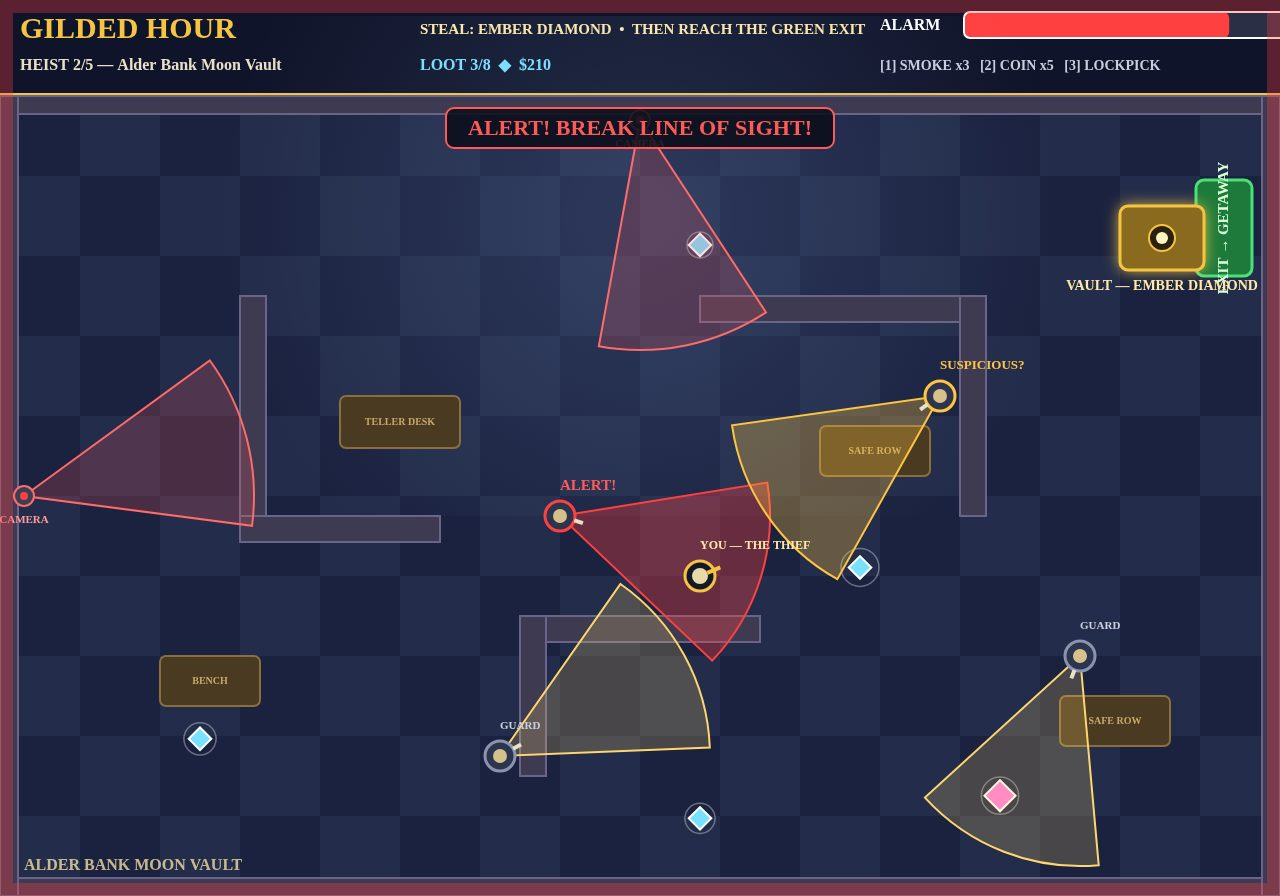
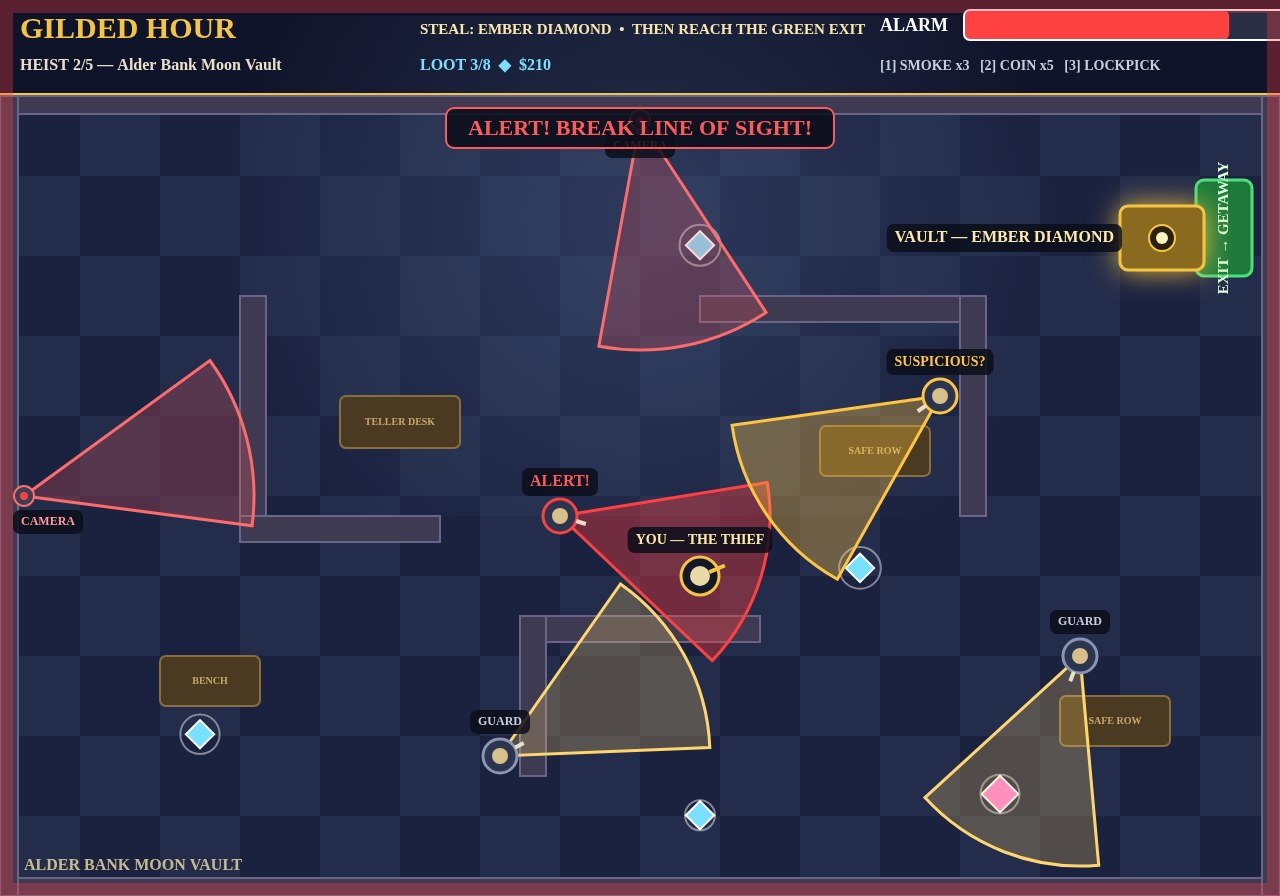
v2: cover legibility at judge size — label pills, bigger thief/vault/treasures, thicker cones, taller alarm meter; getaway shot now heist 5 (Ivory Athenaeum)

diff --git a/game/src/render.js b/game/src/render.js
@@ -31,6 +31,28 @@ function text(ctx, s, x, y, size, color, weight = 'bold', align = 'left') {
   ctx.fillText(s, x, y);
 }
 
+// A dark pill behind a label so it reads at small size even over a bright cone.
+function labelPill(ctx, s, x, y, size, color) {
+  ctx.font = `bold ${size}px Georgia, 'Times New Roman', serif`;
+  const w = ctx.measureText(s).width;
+  const pad = 8;
+  ctx.fillStyle = 'rgba(11, 14, 26, 0.85)';
+  rr(ctx, x - w / 2 - pad, y - size / 2 - 6, w + pad * 2, size + 12, 7);
+  ctx.fill();
+  text(ctx, s, x, y, size, color, 'bold', 'center');
+}
+
+// Right-aligned pill: the text ends at x (used by the vault label).
+function labelPillRight(ctx, s, x, y, size, color) {
+  ctx.font = `bold ${size}px Georgia, 'Times New Roman', serif`;
+  const w = ctx.measureText(s).width;
+  const pad = 8;
+  ctx.fillStyle = 'rgba(11, 14, 26, 0.85)';
+  rr(ctx, x - w - pad, y - size / 2 - 6, w + pad * 2, size + 12, 7);
+  ctx.fill();
+  text(ctx, s, x, y, size, color, 'bold', 'right');
+}
+
 function drawCone(ctx, x, y, angle, range, half, fill, edge) {
   ctx.beginPath();
   ctx.moveTo(x, y);
@@ -39,45 +61,49 @@ function drawCone(ctx, x, y, angle, range, half, fill, edge) {
   ctx.fillStyle = fill;
   ctx.fill();
   ctx.strokeStyle = edge;
-  ctx.lineWidth = 2;
+  ctx.lineWidth = 3;
   ctx.stroke();
 }
 
 function drawGuard(ctx, g) {
   drawCone(ctx, g.x, g.y, g.angle, CONE_RANGE, CONE_HALF_ANGLE, coneColor(g.state), coneEdgeColor(g.state));
-  // Body: dark uniform, brass buttons, helmet brim.
-  ctx.beginPath(); ctx.arc(g.x, g.y, 15, 0, Math.PI * 2); ctx.fillStyle = '#2c3550'; ctx.fill();
+  // Body: dark uniform, brass buttons, helmet brim. Bigger than v1 so the
+  // guard reads as a person, not a dot, when the cover is shrunk.
+  ctx.beginPath(); ctx.arc(g.x, g.y, 17, 0, Math.PI * 2); ctx.fillStyle = '#2c3550'; ctx.fill();
   ctx.lineWidth = 3; ctx.strokeStyle = g.state === 'alert' ? '#ff4040' : g.state === 'suspicious' ? '#ffc440' : '#8a94b0'; ctx.stroke();
-  ctx.beginPath(); ctx.arc(g.x, g.y, 7, 0, Math.PI * 2); ctx.fillStyle = '#d8c08a'; ctx.fill();
+  ctx.beginPath(); ctx.arc(g.x, g.y, 8, 0, Math.PI * 2); ctx.fillStyle = '#d8c08a'; ctx.fill();
   // Facing tick.
   ctx.beginPath();
-  ctx.moveTo(g.x + Math.cos(g.angle) * 15, g.y + Math.sin(g.angle) * 15);
-  ctx.lineTo(g.x + Math.cos(g.angle) * 24, g.y + Math.sin(g.angle) * 24);
+  ctx.moveTo(g.x + Math.cos(g.angle) * 17, g.y + Math.sin(g.angle) * 17);
+  ctx.lineTo(g.x + Math.cos(g.angle) * 27, g.y + Math.sin(g.angle) * 27);
   ctx.lineWidth = 4; ctx.strokeStyle = '#e8e0c8'; ctx.stroke();
-  // State label, big enough to read at small size.
-  if (g.state === 'alert') text(ctx, 'ALERT!', g.x, g.y - 30, 15, '#ff5a5a');
-  else if (g.state === 'suspicious') text(ctx, 'SUSPICIOUS?', g.x, g.y - 30, 13, '#ffc440');
-  else text(ctx, 'GUARD', g.x, g.y - 30, 11, '#c8cede');
+  // State label on a dark pill, big enough to read at small size.
+  if (g.state === 'alert') labelPill(ctx, 'ALERT!', g.x, g.y - 34, 16, '#ff5a5a');
+  else if (g.state === 'suspicious') labelPill(ctx, 'SUSPICIOUS?', g.x, g.y - 34, 14, '#ffc440');
+  else labelPill(ctx, 'GUARD', g.x, g.y - 34, 12, '#c8cede');
 }
 
 function drawCamera(ctx, cam) {
-  drawCone(ctx, cam.x, cam.y, cam.angle, CAM_RANGE, CAM_HALF_ANGLE, 'rgba(255, 90, 90, 0.20)', '#ff6a6a');
+  drawCone(ctx, cam.x, cam.y, cam.angle, CAM_RANGE, CAM_HALF_ANGLE, 'rgba(255, 90, 90, 0.24)', '#ff6a6a');
   ctx.beginPath(); ctx.arc(cam.x, cam.y, 10, 0, Math.PI * 2); ctx.fillStyle = '#3a3f55'; ctx.fill();
   ctx.lineWidth = 2; ctx.strokeStyle = '#ff6a6a'; ctx.stroke();
   ctx.beginPath(); ctx.arc(cam.x, cam.y, 4, 0, Math.PI * 2); ctx.fillStyle = '#ff4040'; ctx.fill();
-  text(ctx, 'CAMERA', cam.x, cam.y + 24, 11, '#ff9a9a', 'bold', 'center');
+  // Clamp the label inside the frame: wall cameras sit at the very edge.
+  const lx = Math.max(48, Math.min(VIEW_W - 48, cam.x));
+  labelPill(ctx, 'CAMERA', lx, cam.y + 26, 12, '#ff9a9a');
 }
 
 function drawThief(ctx, t) {
-  // Hooded figure: dark cloak, gold mask stripe, facing tick.
-  ctx.beginPath(); ctx.arc(t.x, t.y, 15, 0, Math.PI * 2); ctx.fillStyle = '#141828'; ctx.fill();
+  // Hooded figure: dark cloak, gold mask stripe, facing tick. Bigger than v1
+  // so the hero is unmistakable at contact-sheet size.
+  ctx.beginPath(); ctx.arc(t.x, t.y, 19, 0, Math.PI * 2); ctx.fillStyle = '#141828'; ctx.fill();
   ctx.lineWidth = 3; ctx.strokeStyle = GOLD; ctx.stroke();
-  ctx.beginPath(); ctx.arc(t.x, t.y, 8, 0, Math.PI * 2); ctx.fillStyle = '#e8d9a8'; ctx.fill();
+  ctx.beginPath(); ctx.arc(t.x, t.y, 10, 0, Math.PI * 2); ctx.fillStyle = '#e8d9a8'; ctx.fill();
   ctx.beginPath();
-  ctx.moveTo(t.x + Math.cos(t.angle) * 8, t.y + Math.sin(t.angle) * 8);
-  ctx.lineTo(t.x + Math.cos(t.angle) * 22, t.y + Math.sin(t.angle) * 22);
+  ctx.moveTo(t.x + Math.cos(t.angle) * 10, t.y + Math.sin(t.angle) * 10);
+  ctx.lineTo(t.x + Math.cos(t.angle) * 27, t.y + Math.sin(t.angle) * 27);
   ctx.lineWidth = 4; ctx.strokeStyle = GOLD; ctx.stroke();
-  text(ctx, 'YOU — THE THIEF', t.x, t.y - 30, 12, '#ffe9a8');
+  labelPill(ctx, 'YOU — THE THIEF', t.x, t.y - 36, 14, '#ffe9a8');
 }
 
 function drawTreasure(ctx, tr, time) {
@@ -87,19 +113,19 @@ function drawTreasure(ctx, tr, time) {
   ctx.save();
   ctx.translate(tr.x, y);
   ctx.rotate(Math.PI / 4);
-  const s = tr.kind === 'relic' ? 11 : 8;
+  const s = tr.kind === 'relic' ? 13 : 10;
   ctx.fillStyle = tr.kind === 'relic' ? '#ff7ad9' : '#7ae0ff';
   ctx.fillRect(-s, -s, s * 2, s * 2);
   ctx.strokeStyle = '#ffffff'; ctx.lineWidth = 2; ctx.strokeRect(-s, -s, s * 2, s * 2);
   ctx.restore();
-  ctx.beginPath(); ctx.arc(tr.x, y, 16 + Math.sin(time * 4 + tr.bob) * 3, 0, Math.PI * 2);
-  ctx.strokeStyle = 'rgba(255,255,255,0.35)'; ctx.lineWidth = 1.5; ctx.stroke();
+  ctx.beginPath(); ctx.arc(tr.x, y, 18 + Math.sin(time * 4 + tr.bob) * 3, 0, Math.PI * 2);
+  ctx.strokeStyle = 'rgba(255,255,255,0.45)'; ctx.lineWidth = 2; ctx.stroke();
 }
 
 function drawVault(ctx, vault, time) {
-  const glow = vault.taken ? 0.25 : 0.55 + Math.sin(time * 2.5) * 0.2;
+  const glow = vault.taken ? 0.3 : 0.7 + Math.sin(time * 2.5) * 0.25;
   ctx.save();
-  ctx.shadowColor = GOLD; ctx.shadowBlur = 26 * glow;
+  ctx.shadowColor = GOLD; ctx.shadowBlur = 38 * glow;
   ctx.fillStyle = vault.taken ? '#5a4a28' : '#8a6a1e';
   rr(ctx, vault.x, vault.y, vault.w, vault.h, 8); ctx.fill();
   ctx.restore();
@@ -109,9 +135,9 @@ function drawVault(ctx, vault, time) {
   ctx.strokeStyle = GOLD; ctx.lineWidth = 2; ctx.stroke();
   if (!vault.taken) {
     ctx.beginPath(); ctx.arc(vault.x + 42, vault.y + 32, 6, 0, Math.PI * 2); ctx.fillStyle = '#fff3c0'; ctx.fill();
-    text(ctx, 'VAULT — ' + vault.lootName.toUpperCase(), vault.x - 6, vault.y + 32, 14, '#ffe9a8', 'bold', 'right');
+    labelPillRight(ctx, 'VAULT — ' + vault.lootName.toUpperCase(), vault.x - 6, vault.y + 32, 16, '#ffe9a8');
   } else {
-    text(ctx, 'VAULT — EMPTIED', vault.x - 6, vault.y + 32, 14, '#b8b090', 'bold', 'right');
+    labelPillRight(ctx, 'VAULT — EMPTIED', vault.x - 6, vault.y + 32, 16, '#b8b090');
   }
 }
 
@@ -209,15 +235,16 @@ function drawHUD(ctx, s) {
   text(ctx, `STEAL: ${h.signature.toUpperCase()}  •  THEN REACH THE GREEN EXIT`, 420, 30, 15, '#ffe9a8');
   const taken = h.treasures.filter((t) => t.taken).length;
   text(ctx, `LOOT ${taken}/${h.treasures.length}  ◆  $${s.score}`, 420, 66, 16, '#7ae0ff');
-  // Alarm meter — big, labelled, impossible to miss.
+  // Alarm meter — big, labelled, impossible to miss. Taller than v1 so the
+  // fill level reads at contact-sheet size.
   const ax = 880, aw = 340;
-  text(ctx, 'ALARM', ax, 26, 16, '#ffffff');
+  text(ctx, 'ALARM', ax, 26, 18, '#ffffff');
   ctx.fillStyle = '#2a2f45';
-  rr(ctx, ax + 84, 12, aw, 26, 6); ctx.fill();
+  rr(ctx, ax + 84, 10, aw, 30, 6); ctx.fill();
   ctx.fillStyle = alarmColor(s.alarm);
-  if (s.alarm > 0) { rr(ctx, ax + 84, 12, Math.max(14, (aw * s.alarm) / 100), 26, 6); ctx.fill(); }
-  ctx.strokeStyle = '#ffffff'; ctx.lineWidth = 2; rr(ctx, ax + 84, 12, aw, 26, 6); ctx.stroke();
-  text(ctx, `${Math.round(s.alarm)}%`, ax + 84 + aw + 8, 26, 16, alarmColor(s.alarm));
+  if (s.alarm > 0) { rr(ctx, ax + 84, 10, Math.max(16, (aw * s.alarm) / 100), 30, 6); ctx.fill(); }
+  ctx.strokeStyle = '#ffffff'; ctx.lineWidth = 2; rr(ctx, ax + 84, 10, aw, 30, 6); ctx.stroke();
+  text(ctx, `${Math.round(s.alarm)}%`, ax + 84 + aw + 8, 26, 18, alarmColor(s.alarm));
   // Gadgets.
   const g = s.gadgets;
   text(ctx, `[1] SMOKE x${g.smoke}   [2] COIN x${g.coin}   [3] LOCKPICK`, 880, 66, 14, '#c8cede');
@@ -233,7 +260,7 @@ function drawTitle(ctx, s) {
   ctx.fillStyle = g;
   ctx.fillRect(0, 0, VIEW_W, VIEW_H);
   text(ctx, 'GILDED HOUR', VIEW_W / 2, 120, 84, GOLD, 'bold', 'center');
-  text(ctx, 'A LAMPLIGHT HEIST  •  5 HEISTS  •  21 GUARDS  •  40 TREASURES  •  13 CAMERAS  •  3 GADGETS', VIEW_W / 2, 178, 18, '#e8e0c8', 'bold', 'center');
+  text(ctx, 'A LAMPLIGHT HEIST  •  5 HEISTS  •  21 GUARDS  •  40 TREASURES  •  13 CAMERAS  •  3 GADGETS', VIEW_W / 2, 178, 20, '#e8e0c8', 'bold', 'center');
   text(ctx, 'Sneak past the cones. Blind the cameras. Lift the signature loot. Vanish out the green door.', VIEW_W / 2, 212, 17, '#c8cede', 'normal', 'center');
   // Heist list.
   let y = 268;
@@ -243,17 +270,19 @@ function drawTitle(ctx, s) {
     rr(ctx, 190, y, 900, 62, 10); ctx.fill();
     ctx.strokeStyle = sel ? GOLD : '#3a3f55'; ctx.lineWidth = sel ? 3 : 1;
     rr(ctx, 190, y, 900, 62, 10); ctx.stroke();
-    text(ctx, `${hh.id}. ${hh.name}`, 214, y + 22, 20, sel ? GOLD : '#e8e0c8');
-    text(ctx, `Steal the ${hh.signature}  •  ${hh.guards.length} guards  •  ${hh.cameras.length} cameras  •  ${hh.treasures.length} treasures`, 214, y + 46, 14, '#b8bcc8');
+    text(ctx, `${hh.id}. ${hh.name}`, 214, y + 22, 22, sel ? GOLD : '#e8e0c8');
+    text(ctx, `Steal the ${hh.signature}  •  ${hh.guards.length} guards  •  ${hh.cameras.length} cameras  •  ${hh.treasures.length} treasures`, 214, y + 46, 15, '#b8bcc8');
     text(ctx, hh.mood.toUpperCase(), 1064, y + 31, 13, '#8a94b0', 'bold', 'right');
     y += 74;
   }
-  text(ctx, 'CLICK A HEIST OR PRESS 1–5  •  WASD / ARROWS MOVE  •  SHIFT SNEAK  •  E PICK UP  •  1 SMOKE  •  2 + CLICK COIN  •  3 LOCKPICK', VIEW_W / 2, y + 26, 15, '#ffe9a8', 'bold', 'center');
+  text(ctx, 'CLICK A HEIST OR PRESS 1–5  •  WASD / ARROWS MOVE  •  SHIFT SNEAK  •  E PICK UP  •  1 SMOKE  •  2 + CLICK COIN  •  3 LOCKPICK', VIEW_W / 2, y + 26, 16, '#ffe9a8', 'bold', 'center');
   text(ctx, 'An original game: its own art, names, sounds and levels. No network, no files beyond this folder.', VIEW_W / 2, y + 58, 13, '#8a94b0', 'normal', 'center');
 }
 
 function drawEnd(ctx, s) {
-  ctx.fillStyle = s.screen === 'win' ? 'rgba(8, 30, 16, 0.88)' : 'rgba(30, 8, 12, 0.88)';
+  // Win dim is lighter than v1 so the won room still reads behind the banner
+  // and proves which heist was just completed.
+  ctx.fillStyle = s.screen === 'win' ? 'rgba(8, 30, 16, 0.80)' : 'rgba(30, 8, 12, 0.88)';
   ctx.fillRect(0, 0, VIEW_W, VIEW_H);
   if (s.screen === 'win') {
     text(ctx, 'GETAWAY!', VIEW_W / 2, 300, 88, '#4be07a', 'bold', 'center');

diff --git a/game/src/shots.js b/game/src/shots.js
@@ -60,15 +60,17 @@ export function applyShot(state, shot, seed) {
     return;
   }
   if (shot === 'end') {
-    // GETAWAY: heist 1 won, vault emptied, loot tallied.
-    loadHeist(state, 0);
+    // GETAWAY: heist 5 won, vault emptied, loot tallied. A different heist
+    // from the cover (heist 1) and the alert shot (heist 2), so the four
+    // screenshots together prove distinct locations.
+    loadHeist(state, 4);
     state.heist.vault.taken = true;
     state.heist.treasures[0].taken = true;
     state.heist.treasures[2].taken = true;
-    state.heist.treasures[3].taken = true;
+    state.heist.treasures[4].taken = true;
     state.heist.treasures[5].taken = true;
     state.thief.x = 1196; state.thief.y = 130;
-    state.score = 730;
+    state.score = 930;
     state.alarm = 12;
     state.alarmPeak = 42;
     state.spotted = 1;

diff --git a/game/src/guards.js b/game/src/guards.js
@@ -98,9 +98,9 @@ export function updateGuard(g, dt, thief, blockers, noise, alarm) {
 }
 
 export function coneColor(state) {
-  if (state === 'alert') return 'rgba(255, 64, 64, 0.34)';
-  if (state === 'suspicious') return 'rgba(255, 196, 64, 0.30)';
-  return 'rgba(255, 214, 110, 0.20)';
+  if (state === 'alert') return 'rgba(255, 64, 64, 0.38)';
+  if (state === 'suspicious') return 'rgba(255, 196, 64, 0.34)';
+  return 'rgba(255, 214, 110, 0.24)';
 }
 
 export function coneEdgeColor(state) {
